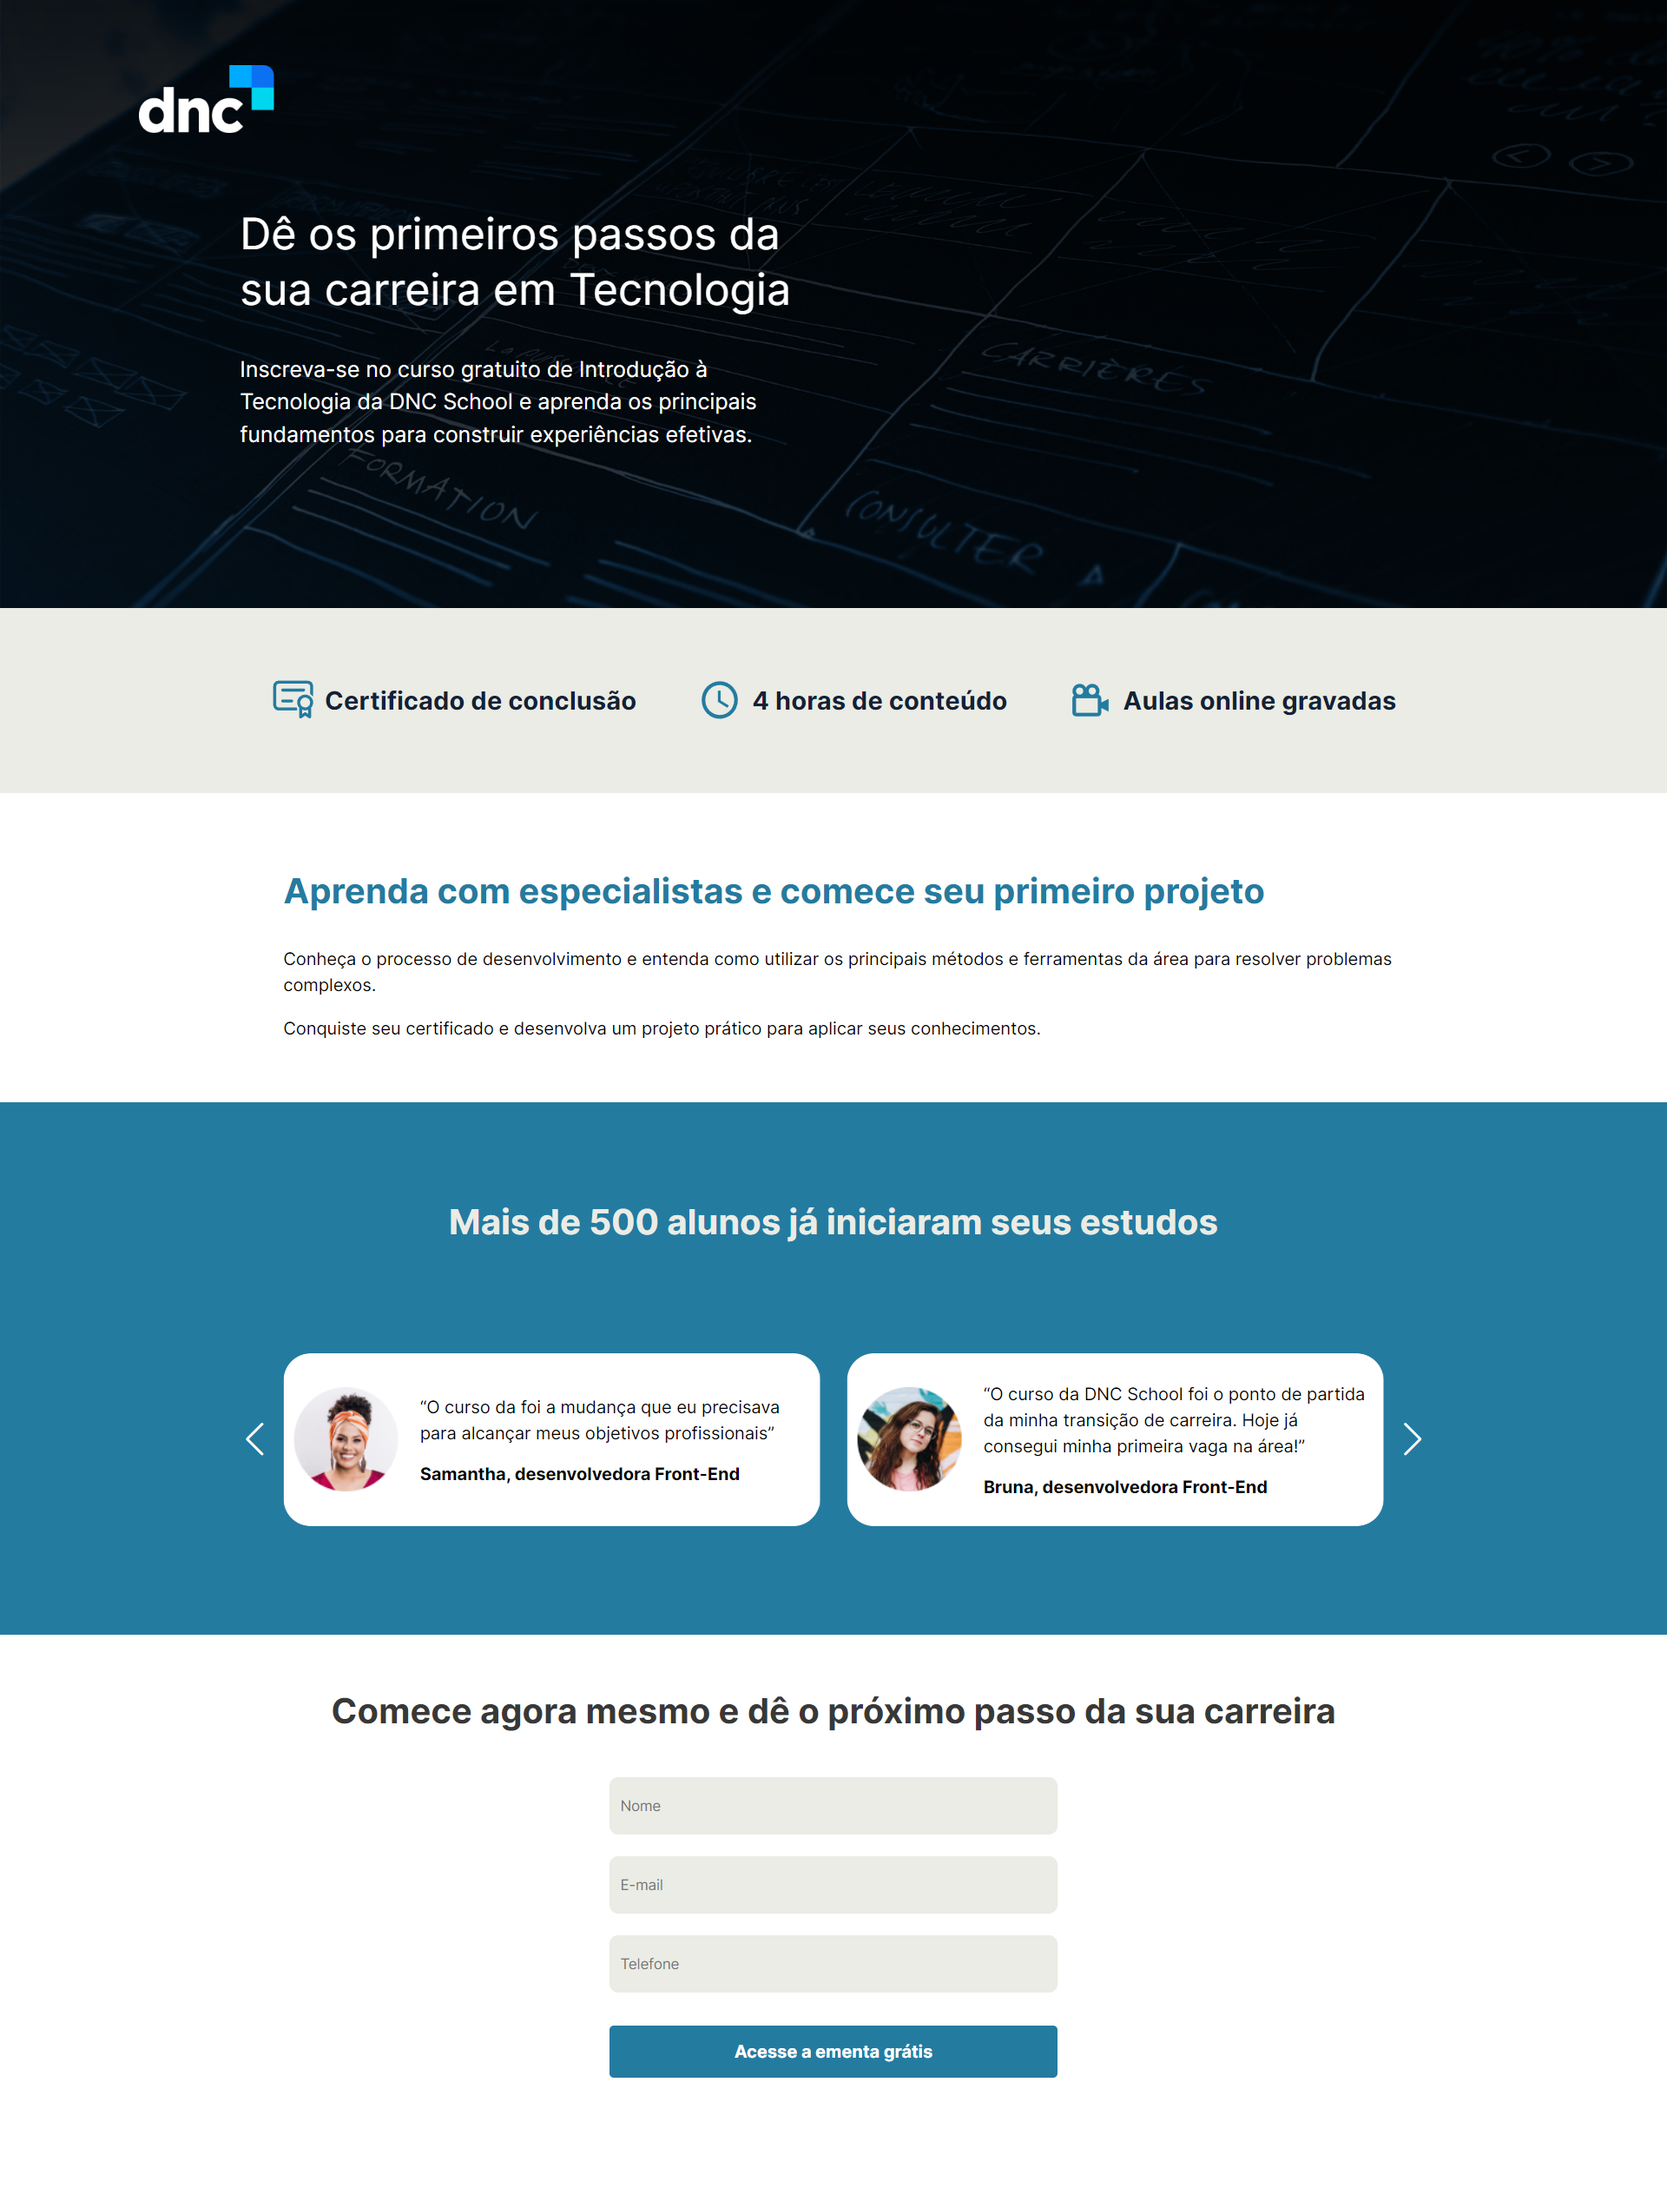
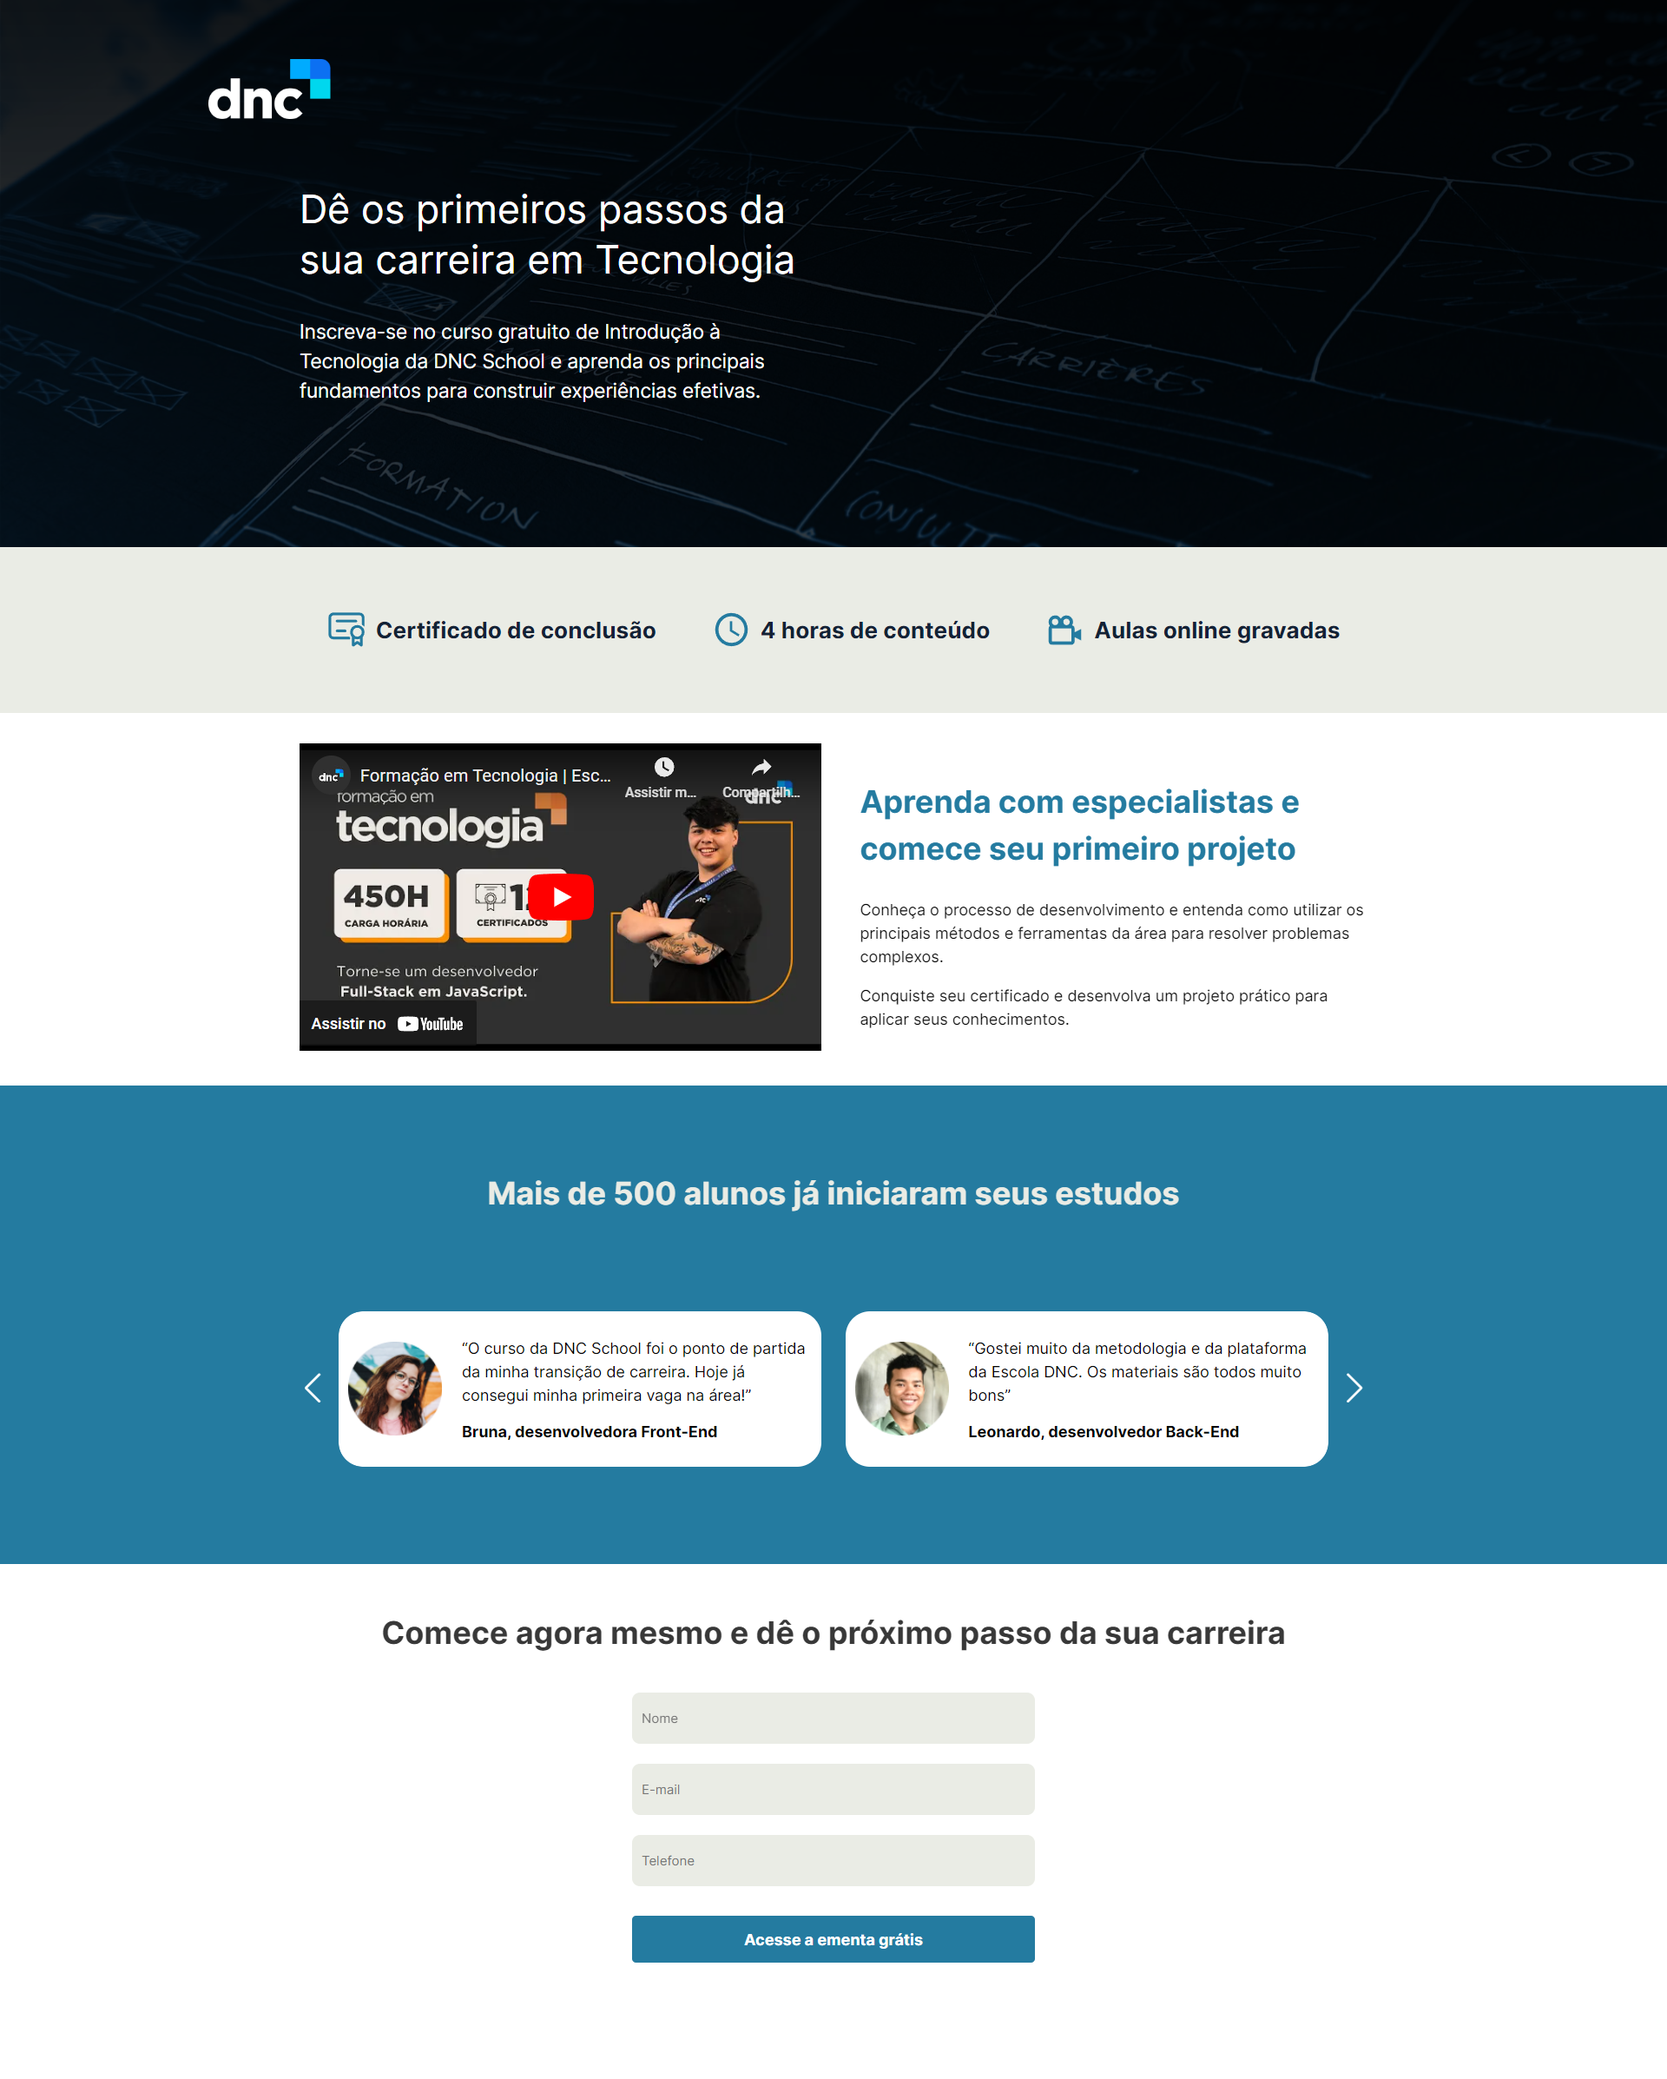
Atualizando video-info

diff --git a/index.html b/index.html
@@ -49,10 +49,10 @@
         <section id="video-info">
             <div class="container">
                 <div>
-                    <!-- <iframe width="534" height="315" src="https://www.youtube.com/embed/fbiod36QJtI?si=VbkaKAfwrf7kXpjs"
+                    <iframe width="534" height="315" src="https://www.youtube.com/embed/fbiod36QJtI?si=VbkaKAfwrf7kXpjs"
                         title="YouTube video player" frameborder="0"
                         allow="accelerometer; autoplay; clipboard-write; encrypted-media; gyroscope; picture-in-picture; web-share"
-                        allowfullscreen></iframe> -->
+                        allowfullscreen></iframe>
                 </div>
                 <div class="video-info-text">
                     <header>
@@ -125,12 +125,8 @@
         </section>
     </main>
 
-
     <script src="assets/js/swiper-bundle.min.js"></script>
     <script src="assets/js/script.js"></script>
 </body>
-
-
-
 
 </html>
